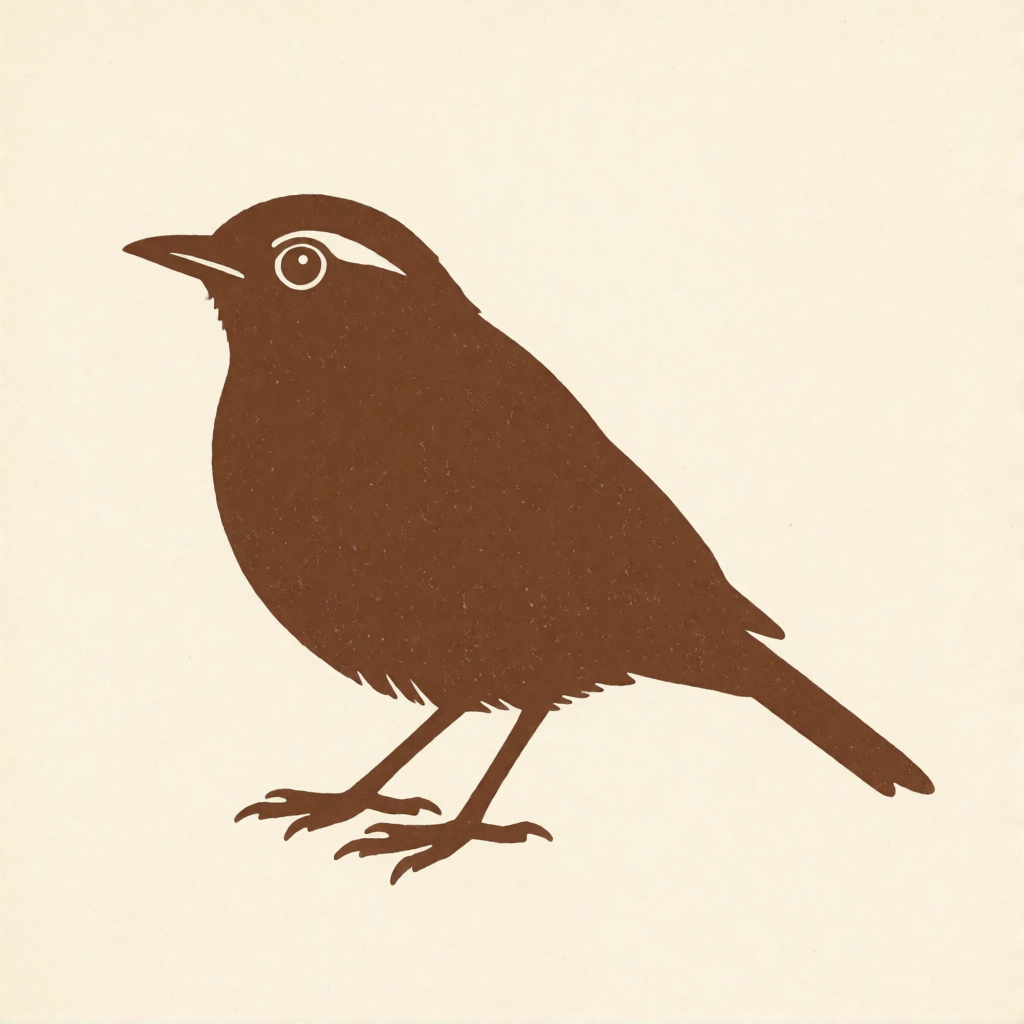
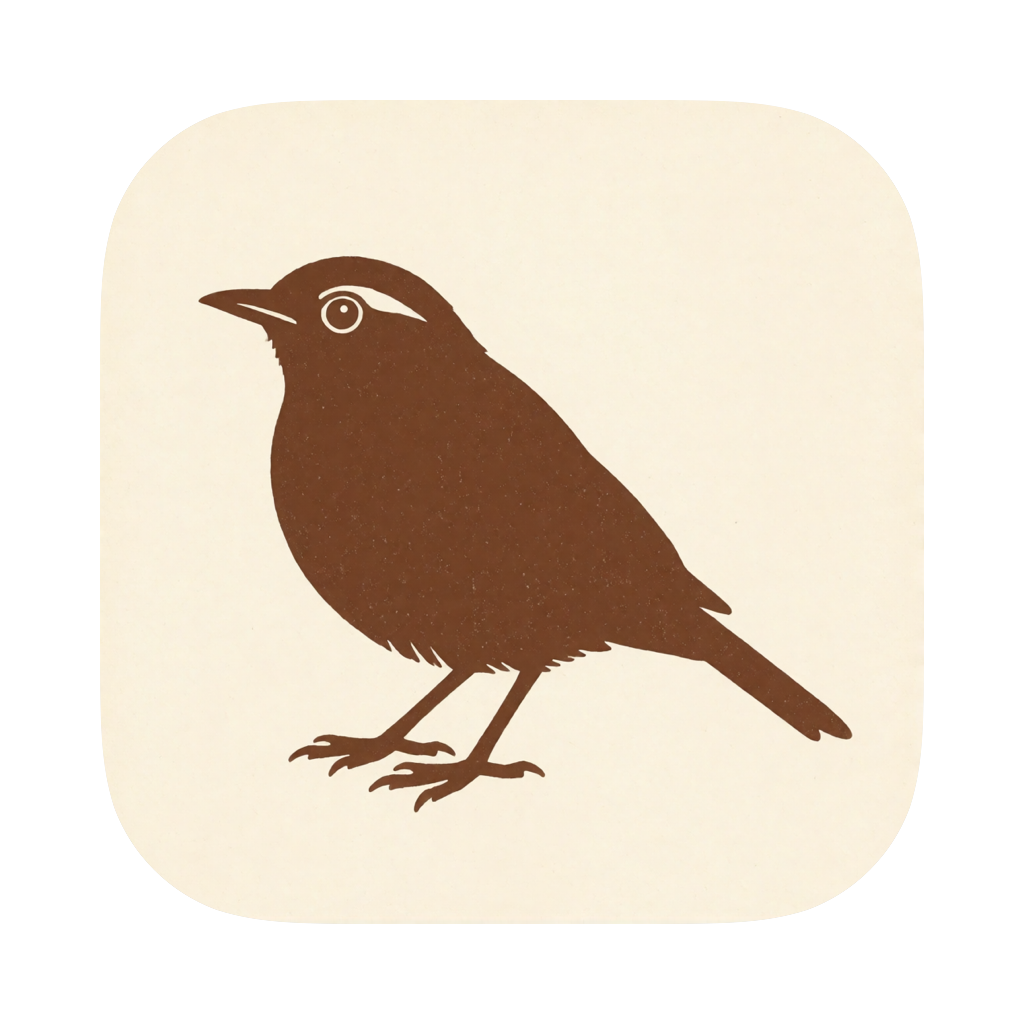
アプリアイコンを macOS の格子に合わせて角丸にした
ロゴをそのまま貼ると Finder と Dock で一つだけ角の立った四角いタイルに
なるので、1024 の canvas の中央に 824 角の角丸正方形 (連続曲線の角) を置く
Apple の格子に収めた。切り抜きは Scripts/app/round_app_icon.swift が
docs/assets/tsugumi.png から作る。角の形は自分で書き起こさず、
CALayer の cornerCurve = .continuous を描かせたものをマスクにしている。
明るい壁紙で地の色 (ほぼ白) が溶けないよう、下に薄い影も落とす。

Claude-Session: https://claude.ai/code/session_019yxc9KE5dfmcMnbq2SmUdT

diff --git a/Scripts/app/round_app_icon.swift b/Scripts/app/round_app_icon.swift
@@ -1,0 +1,100 @@
+// ロゴ (docs/assets/tsugumi.png) を macOS のアプリアイコンの形に整える。
+//
+//   swift Scripts/app/round_app_icon.swift \
+//       docs/assets/tsugumi.png \
+//       Sources/TsugumiApp/Mac/Resources/tsugumi-app-icon.png
+//
+// macOS Big Sur 以降のアイコンは 1024 の canvas の中央に 824 角の角丸正方形が
+// 置かれ、周りは透明の余白になっている。全面を絵で埋めると Finder や Dock で
+// 一つだけ角の立った四角いタイルになるので、その格子に合わせて切り抜く。
+// 角は円弧ではなく連続曲線 (cornerCurve = .continuous) — システムのアイコンと
+// 同じ曲がり方にするため、CALayer に描かせたものをマスクとして使っている。
+//
+// 出来上がりを Sources/... に置いてコミットする。アプリが実行時に読む画像
+// (MacAppIcon) と make_app.sh が作る .icns はどちらもこの 1 枚から来るので、
+// Dock も Finder も About パネルも同じ絵になる。
+import AppKit
+
+let canvas: CGFloat = 1024      // アイコン全体
+let body: CGFloat = 824         // 角丸正方形の一辺 (Apple の格子)
+let cornerRadius: CGFloat = 185.4
+let inset = (canvas - body) / 2
+
+func fail(_ message: String) -> Never {
+    FileHandle.standardError.write(Data((message + "\n").utf8))
+    exit(1)
+}
+
+let arguments = CommandLine.arguments
+guard arguments.count == 3 else {
+    fail("usage: round_app_icon.swift <source.png> <destination.png>")
+}
+let sourceURL = URL(fileURLWithPath: arguments[1])
+let destinationURL = URL(fileURLWithPath: arguments[2])
+
+guard let source = CGImageSourceCreateWithURL(sourceURL as CFURL, nil),
+      let logo = CGImageSourceCreateImageAtIndex(source, 0, nil) else {
+    fail("\(sourceURL.path) を画像として読めなかった")
+}
+
+// 角丸の形そのものを 8bit のマスクにする。CALayer に描かせているのは、
+// 連続曲線の角を自分で書き起こさずにシステムと同じ形を得るため。
+// CGImage のマスクは「黒いところが通る」ので、地を白、形を黒で描く。
+guard let maskContext = CGContext(
+    data: nil,
+    width: Int(body), height: Int(body),
+    bitsPerComponent: 8, bytesPerRow: 0,
+    space: CGColorSpaceCreateDeviceGray(),
+    bitmapInfo: CGImageAlphaInfo.none.rawValue
+) else { fail("マスクの context を作れなかった") }
+maskContext.setFillColor(gray: 1, alpha: 1)
+maskContext.fill(CGRect(x: 0, y: 0, width: body, height: body))
+
+let shape = CALayer()
+shape.frame = CGRect(x: 0, y: 0, width: body, height: body)
+shape.backgroundColor = CGColor(gray: 0, alpha: 1)
+shape.cornerRadius = cornerRadius
+shape.cornerCurve = .continuous
+shape.masksToBounds = true
+shape.render(in: maskContext)
+
+guard let maskImage = maskContext.makeImage(),
+      let mask = CGImage(
+          maskWidth: maskImage.width, height: maskImage.height,
+          bitsPerComponent: 8, bitsPerPixel: 8,
+          bytesPerRow: maskImage.bytesPerRow,
+          provider: maskImage.dataProvider!, decode: nil,
+          shouldInterpolate: true
+      ) else { fail("マスクを作れなかった") }
+
+guard let context = CGContext(
+    data: nil,
+    width: Int(canvas), height: Int(canvas),
+    bitsPerComponent: 8, bytesPerRow: 0,
+    space: CGColorSpace(name: CGColorSpace.sRGB)!,
+    bitmapInfo: CGImageAlphaInfo.premultipliedLast.rawValue
+) else { fail("出力の context を作れなかった") }
+
+let bodyRect = CGRect(x: inset, y: inset, width: body, height: body)
+
+// システムのアイコンと同じく、下に薄く影を落とす。明るい壁紙の上で
+// 白っぽい地の絵が背景に溶けないようにするため。
+context.setShadow(
+    offset: CGSize(width: 0, height: -8),
+    blur: 24,
+    color: CGColor(gray: 0, alpha: 0.18)
+)
+context.saveGState()
+context.clip(to: bodyRect, mask: mask)
+context.draw(logo, in: bodyRect)
+context.restoreGState()
+
+guard let output = context.makeImage(),
+      let destination = CGImageDestinationCreateWithURL(
+          destinationURL as CFURL, "public.png" as CFString, 1, nil
+      ) else { fail("\(destinationURL.path) に書けなかった") }
+CGImageDestinationAddImage(destination, output, nil)
+guard CGImageDestinationFinalize(destination) else {
+    fail("\(destinationURL.path) の書き出しに失敗した")
+}
+print("\(destinationURL.path) — \(output.width)x\(output.height)")

diff --git a/docs/DISTRIBUTION.md b/docs/DISTRIBUTION.md
@@ -25,6 +25,13 @@ Scripts/app/verify_app.sh
 バージョンは `AboutPanelPresentation.fallbackShortVersion` から取って
 `Info.plist` に書く。About パネルの表示と `Info.plist` は同じ出所になる。
 
+アイコンは `Sources/TsugumiApp/Mac/Resources/tsugumi-app-icon.png` の 1 枚から、
+Finder/Dock 用の `.icns` も、アプリが実行時に読む画像 (`MacAppIcon`) も作る。
+中身は `docs/assets/tsugumi.png` を macOS の格子 — 1024 の canvas の中央に
+824 角の角丸正方形 — に収めたもので、ロゴを描き直したときは
+`swift Scripts/app/round_app_icon.swift docs/assets/tsugumi.png <出力>` を
+通してから置き換えること。全面を絵で埋めると角の立った四角いタイルになる。
+
 ### リソースの置き場所が Contents/Resources である理由
 
 SwiftPM が作る `Bundle.module` は `<パッケージ名>_<ターゲット名>.bundle` を
